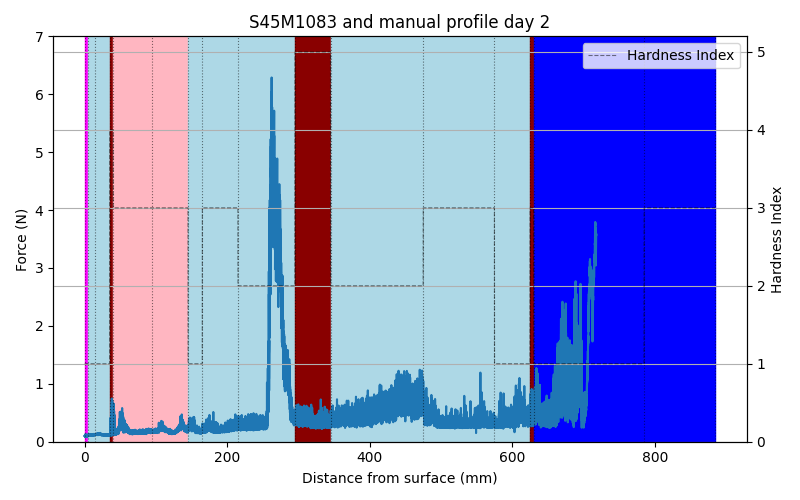
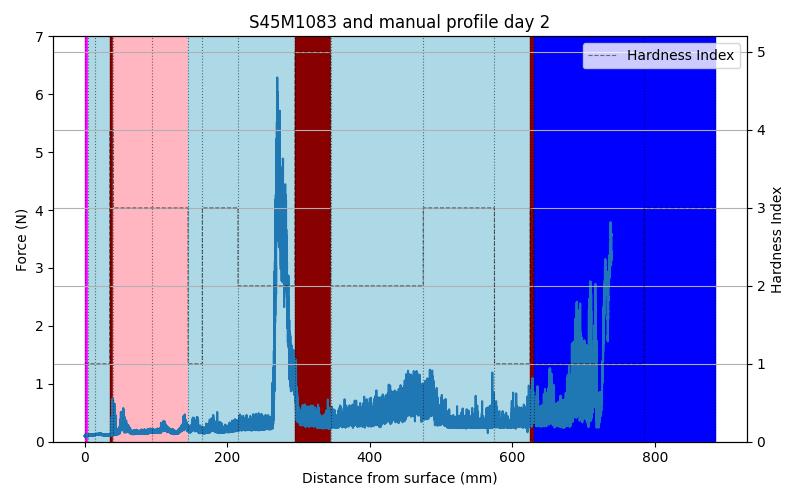
right angles for different days

Changed region(s): [[0.125, 0.15, 0.7812, 0.87]]

diff --git a/code_json/alignSMPtoJson.py b/code_json/alignSMPtoJson.py
@@ -9,7 +9,7 @@ from code_json.readjson import load_lawis_profile
 def correct_height(df, angle):
     #print(f"Max height {name}: ", df["distance"].max())
     df["distance"] = df["distance"] * np.cos(np.deg2rad(angle))
-    #print(f"Max height after correction {name}: ", df["distance"].max())
+    print(f"Max height after correction {name}: ", df["distance"].max())
 
     return df
 
@@ -18,11 +18,11 @@ def align_SMP_to_Snowprofile(df):
     if df.attrs["date"] == 1: 
         #align to first Snowprofile
         json, boundaries = load_lawis_profile("data/LawisProfile23044.json")
-        angle = 21
+        angle = 25
     elif df.attrs["date"] == 2:
         #align to second Snowprofile
         json, boundaries = load_lawis_profile("data/LawisProfile23778.json")
-        angle = 25
+        angle = 21
 
     # adapt height of SMP to match the JSON (angle correction)
     df = correct_height(df, angle)
